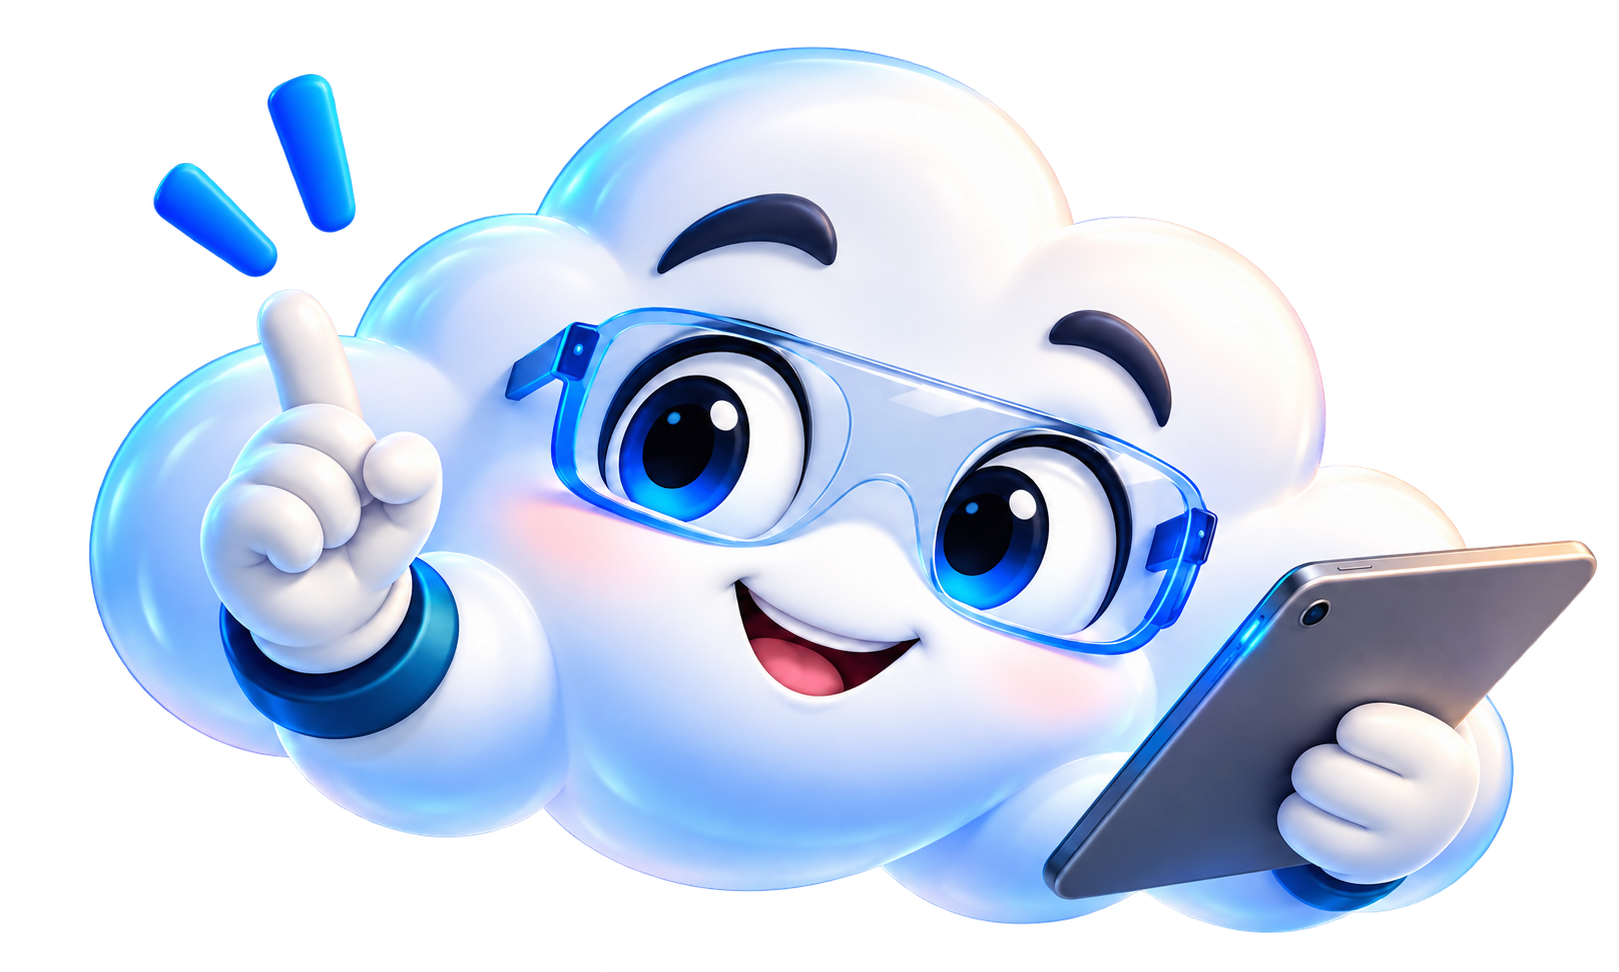
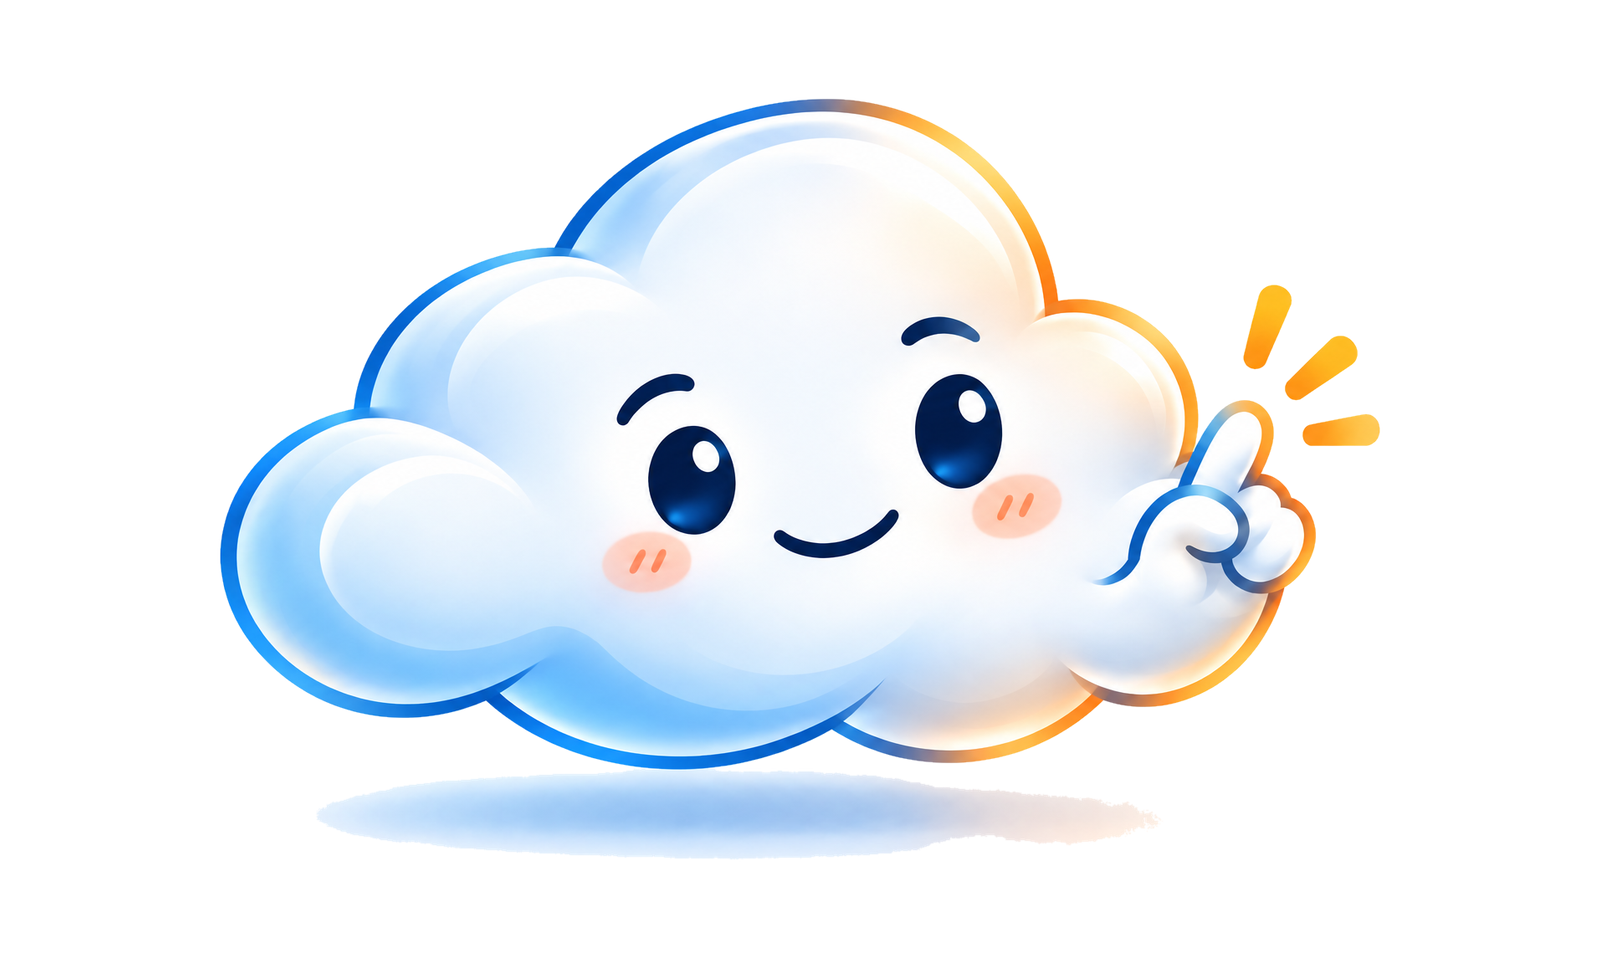
Replace Agente Nubi cloud image

diff --git a/static/index.html b/static/index.html
@@ -1,5 +1,5 @@
 <!doctype html>
 <html lang="es"><head><meta charset="UTF-8"><script>if(location.protocol==='file:')location.replace('http://127.0.0.1:8100/portal/cursos/');</script><meta name="viewport" content="width=device-width, initial-scale=1"><meta name="theme-color" content="#0068ef"><title>Aula TP Chile · Campus local</title><link rel="icon" href="/static/logo-aula-tp-oficial.png?v=2"><link rel="stylesheet" href="/static/style.css?v=7"><link rel="stylesheet" href="/static/journey.css?v=16"><link rel="stylesheet" href="/static/campus-theme.css?v=55663"><link rel="stylesheet" href="/static/aula-tp-hero.css?v=47"><script src="/static/specialty-theme.js?v=51" defer></script><link rel="stylesheet" href="/static/integrated-station.css?v=15"><link rel="stylesheet" href="/static/exam-station.css?v=20261003-25-plus-complex"><link rel="stylesheet" href="/static/feedback-station.css?v=20261003-tab-connection"><link rel="stylesheet" href="/static/work-zone.css?v=12"><link rel="stylesheet" href="/static/recuerda.css?v=11">
-<link rel="stylesheet" href="/static/agent-panel.css?v=57763"><link rel="stylesheet" href="/static/activity-engine.css?v=10"><link rel="stylesheet" href="/static/actividades-oficio.css?v=20261003-detail-layout"><link rel="stylesheet" href="/static/mcq-item.css?v=2"><link rel="stylesheet" href="/static/pedagogy-signage.css?v=3"><link rel="stylesheet" href="/static/access.css?v=8"><link rel="stylesheet" href="/static/practice-free.css?v=58683"><link rel="stylesheet" href="/static/visual-sim.css?v=4"><link rel="stylesheet" href="/static/soft-borders.css?v=1"><link rel="stylesheet" href="/static/learning-route.css?v=55950"><link rel="stylesheet" href="/static/controls.css?v=1"><link rel="stylesheet" href="/static/menu-logic.css?v=20261002"><link rel="stylesheet" href="/static/support-tools.css?v=20261003-inline-response"><link rel="stylesheet" href="/static/student-action-cue.css?v=20261003-write-banner"><link rel="stylesheet" href="/static/login-reference.css?v=1"><script src="/static/work-zone.js?v=55662" defer></script><script src="/static/narration.js?v=3" defer></script><script src="/static/visual-sim.js?v=9" defer></script><script src="/static/media-fallback.js?v=20261002" defer></script><script src="/static/actividades-oficio.js?v=6" defer></script><script src="/static/encargos.js?v=20261003-detail-layout" defer></script><script src="/static/activity-engine.js?v=20261003-inline-response" defer></script><script src="/static/mcq-item.js?v=4" defer></script><script src="/static/integrated-station.js?v=20261003-remove-guides" defer></script><script src="/static/course-tools.js?v=20261003-remove-guides" defer></script><script src="/static/access.js?v=7" defer></script><script src="/static/drafts.js?v=3" defer></script><script src="/static/resume.js?v=4" defer></script><script src="/static/menu-logic.js?v=20261002-local-open" defer></script><script src="/static/app.js?v=20261003-write-banner" defer></script>
+<link rel="stylesheet" href="/static/agent-panel.css?v=57763"><link rel="stylesheet" href="/static/activity-engine.css?v=10"><link rel="stylesheet" href="/static/actividades-oficio.css?v=20261003-detail-layout"><link rel="stylesheet" href="/static/mcq-item.css?v=2"><link rel="stylesheet" href="/static/pedagogy-signage.css?v=3"><link rel="stylesheet" href="/static/access.css?v=8"><link rel="stylesheet" href="/static/practice-free.css?v=58683"><link rel="stylesheet" href="/static/visual-sim.css?v=4"><link rel="stylesheet" href="/static/soft-borders.css?v=1"><link rel="stylesheet" href="/static/learning-route.css?v=55950"><link rel="stylesheet" href="/static/controls.css?v=1"><link rel="stylesheet" href="/static/menu-logic.css?v=20261002"><link rel="stylesheet" href="/static/support-tools.css?v=20261003-inline-response"><link rel="stylesheet" href="/static/student-action-cue.css?v=20261003-write-banner"><link rel="stylesheet" href="/static/login-reference.css?v=1"><script src="/static/work-zone.js?v=55662" defer></script><script src="/static/narration.js?v=3" defer></script><script src="/static/visual-sim.js?v=9" defer></script><script src="/static/media-fallback.js?v=20261002" defer></script><script src="/static/actividades-oficio.js?v=6" defer></script><script src="/static/encargos.js?v=20261003-detail-layout" defer></script><script src="/static/activity-engine.js?v=20261003-inline-response" defer></script><script src="/static/mcq-item.js?v=4" defer></script><script src="/static/integrated-station.js?v=20261003-remove-guides" defer></script><script src="/static/course-tools.js?v=20261003-remove-guides" defer></script><script src="/static/access.js?v=7" defer></script><script src="/static/drafts.js?v=3" defer></script><script src="/static/resume.js?v=4" defer></script><script src="/static/menu-logic.js?v=20261002-local-open" defer></script><script src="/static/app.js?v=20261003-nubi-simple" defer></script>
 <script src="/static/campus-menu-media.js?v=20261002-local-open" defer></script><script src="/static/campus-coherence.js?v=20261002-local-open" defer></script><script src="/static/practice-free.js?v=58683" defer></script><script src="/static/exam-station.js?v=20261003-25-plus-complex" defer></script><script src="/static/feedback-station.js?v=20261003-tab-connection" defer></script></head><body><a href="#main" class="skip">Saltar al contenido</a><div id="app"><p>Cargando Aula TP Chile…</p></div><div id="toast" role="status" aria-live="polite"></div><dialog id="tool"><div id="tool-content"></div><button class="outline" id="close-tool">Cerrar herramienta</button></dialog><script src="/static/fab-boot.js?v=20261002-local-open" defer></script>
 <script src="/static/course-access.js?v=20261002-local-open" defer></script><link rel="stylesheet" href="/static/select-enhancer.css?v=1"><link rel="stylesheet" href="/static/audit-fixes.css?v=20261003-dual-float"><link rel="stylesheet" href="/static/dashboard-reference.css?v=20261002-menus"><link rel="stylesheet" href="/static/student-progress.css?v=20261002-pedagogical-ux"><link rel="stylesheet" href="/static/pedagogical-unity.css?v=20261003-instruction-showcase"><script src="/static/student-progress.js?v=20261002-pedagogical-ux" defer></script><script src="/static/select-enhancer.js?v=20261002-local-open" defer></script><script src="/static/student-portal-nav.js?v=20261002-local-open" defer></script></body></html>

diff --git a/static/app.js b/static/app.js
@@ -414,7 +414,7 @@ function toolsFabMarkup(station){
  const tools=stationToolsCatalog(station);
  if(!tools.length)return '';
  const cards=tools.map(t=>`<button type="button" class="support-card tone-${t.tone}" data-action="${t.id}" aria-label="${esc(t.title)}. ${esc(t.hint)}"><span class="support-ico" aria-hidden="true">${t.glyph}</span><span class="support-copy"><b>${esc(t.title)}</b><small>${esc(t.hint)}</small></span><span class="tools-fab-open">Abrir</span></button>`).join('');
- return `<button type="button" class="tools-fab-backdrop" data-action="tools-fab-close" tabindex="-1" aria-label="Cerrar Agente Nubi"></button><div class="tools-fab" data-tools-fab><div id="tools-fab-panel" class="tools-fab-panel" role="dialog" aria-modal="true" aria-labelledby="tools-fab-title"><div class="tools-fab-head"><div><h3 id="tools-fab-title">Agente Nubi</h3><p>Tu nube de apoyo para practicar, orientarte y configurar esta estación.</p></div><button type="button" class="tools-fab-close" data-action="tools-fab-close" aria-label="Cerrar Agente Nubi">×</button></div><div class="tools-fab-list">${cards}</div></div><button type="button" class="tools-fab-btn" data-action="tools-fab-toggle" aria-expanded="false" aria-haspopup="dialog" aria-controls="tools-fab-panel" title="Arrastra para mover. Pulsa la nube para abrir Agente Nubi." aria-label="Agente Nubi. Arrastra para mover o pulsa para abrir"><img class="tools-fab-mascot" src="/static/agente-nubi-presenter.png?v=20261003-animated" alt=""></button></div>`;
+ return `<button type="button" class="tools-fab-backdrop" data-action="tools-fab-close" tabindex="-1" aria-label="Cerrar Agente Nubi"></button><div class="tools-fab" data-tools-fab><div id="tools-fab-panel" class="tools-fab-panel" role="dialog" aria-modal="true" aria-labelledby="tools-fab-title"><div class="tools-fab-head"><div><h3 id="tools-fab-title">Agente Nubi</h3><p>Tu nube de apoyo para practicar, orientarte y configurar esta estación.</p></div><button type="button" class="tools-fab-close" data-action="tools-fab-close" aria-label="Cerrar Agente Nubi">×</button></div><div class="tools-fab-list">${cards}</div></div><button type="button" class="tools-fab-btn" data-action="tools-fab-toggle" aria-expanded="false" aria-haspopup="dialog" aria-controls="tools-fab-panel" title="Arrastra para mover. Pulsa la nube para abrir Agente Nubi." aria-label="Agente Nubi. Arrastra para mover o pulsa para abrir"><img class="tools-fab-mascot" src="/static/agente-nubi-presenter.png?v=20261003-nubi-simple" alt=""></button></div>`;
 }
 const TOOLS_FAB_POS='aula-tools-fab-pos';
 function toolsFabClamp(x,y,el){
